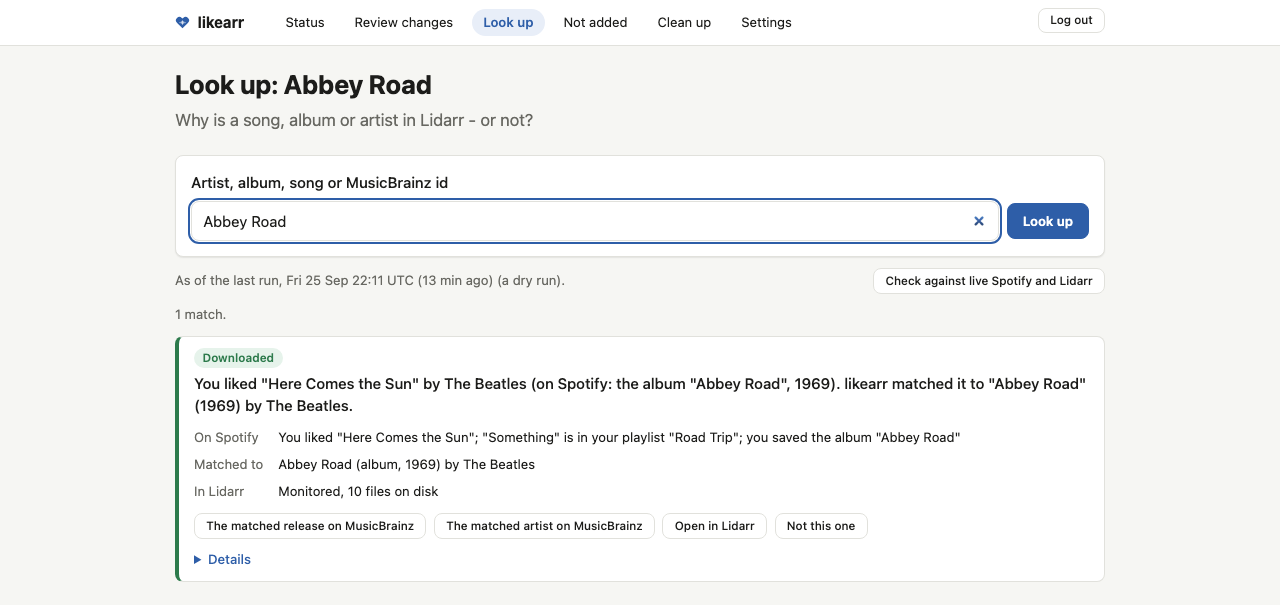
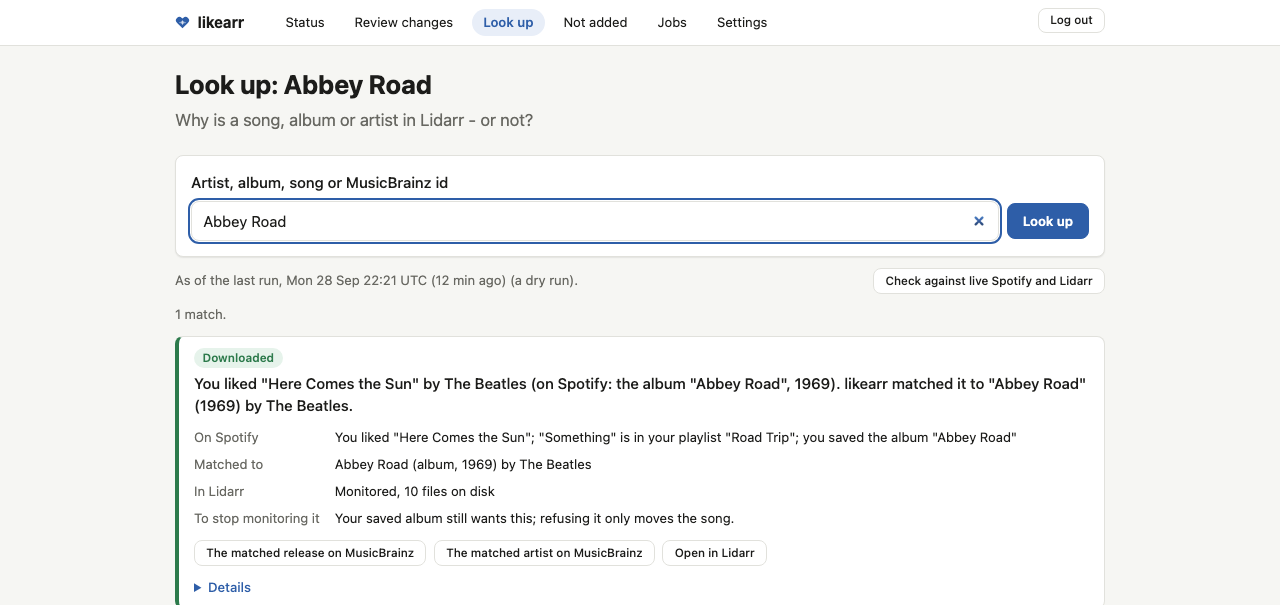
Refresh README screenshots for the new Status page and UI copy (#51)

diff --git a/README.md b/README.md
@@ -19,7 +19,7 @@ scripting.
 
 ## Screenshots
 
-![Status page showing "All good", the last and next scheduled run, download coverage in Lidarr and what the last applied run changed](docs/images/status.png)
+![Status page showing "All good", automatic runs, the last change to Lidarr, pending changes to review, download coverage in Lidarr and the recent runs](docs/images/status.png)
 
 ![Review changes page showing a plan: two artists to add, releases to monitor grouped by why they're wanted, and releases to unmonitor](docs/images/review-changes.png)
 
